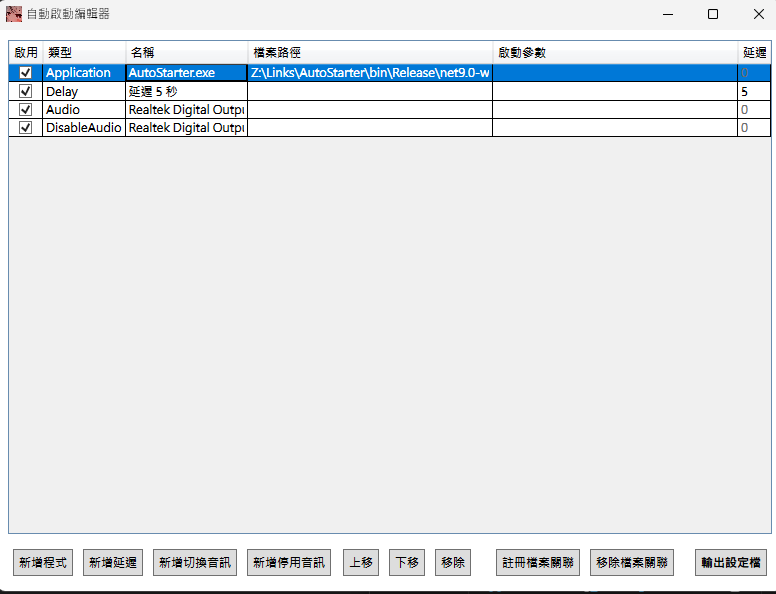
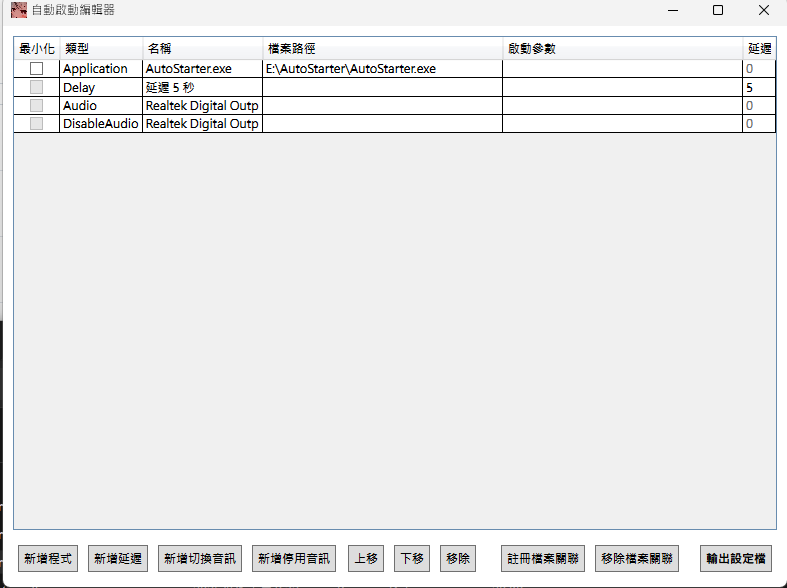
v1.1

Changed region(s): [[0.0, 0.0, 1.0, 1.0], [0.9588, 0.0, 0.9897, 0.0306], [0.8969, 0.0, 0.9278, 0.0306]]

diff --git a/MainWindow.xaml b/MainWindow.xaml
@@ -22,7 +22,23 @@
                   SelectionMode="Single"
                   HeadersVisibility="Column" SelectionChanged="ActionsDataGrid_SelectionChanged">
             <DataGrid.Columns>
-                <DataGridCheckBoxColumn Header="啟用" Binding="{Binding IsEnabled, UpdateSourceTrigger=PropertyChanged}" Width="Auto"/>
+                <DataGridCheckBoxColumn Header="最小化" Binding="{Binding MinimizeWindow, UpdateSourceTrigger=PropertyChanged}" Width="Auto">
+                    <DataGridCheckBoxColumn.CellStyle>
+                        <Style TargetType="DataGridCell">
+                            <Style.Triggers>
+                                <DataTrigger Binding="{Binding Type}" Value="Delay">
+                                    <Setter Property="IsEnabled" Value="False" />
+                                </DataTrigger>
+                                <DataTrigger Binding="{Binding Type}" Value="SetAudioDevice">
+                                    <Setter Property="IsEnabled" Value="False" />
+                                </DataTrigger>
+                                <DataTrigger Binding="{Binding Type}" Value="DisableAudioDevice">
+                                    <Setter Property="IsEnabled" Value="False" />
+                                </DataTrigger>
+                            </Style.Triggers>
+                        </Style>
+                    </DataGridCheckBoxColumn.CellStyle>
+                </DataGridCheckBoxColumn>
                 <DataGridTextColumn Header="類型" Binding="{Binding TypeString}" IsReadOnly="True" Width="Auto"/>
                 <DataGridTextColumn Header="名稱" Binding="{Binding Description}" IsReadOnly="True" Width="*"/>
                 <DataGridTextColumn Header="檔案路徑" Binding="{Binding FilePath, UpdateSourceTrigger=PropertyChanged}" Width="2*">

diff --git a/MainWindow.xaml.cs b/MainWindow.xaml.cs
@@ -1,12 +1,10 @@
 using System.Collections.ObjectModel;
 using System.IO;
-using System.Linq;
 using System.Text.Json;
 using System.Text.Json.Serialization;
 using System.Windows;
 using Microsoft.Win32;
 using NAudio.CoreAudioApi;
-using AutoStarter.CoreAudio;
 
 namespace AutoStarter;
 
@@ -36,18 +34,17 @@ public partial class MainWindow : Window
             {
                 Type = ActionType.LaunchApplication,
                 FilePath = openFileDialog.FileName,
-                Arguments = "",
-                IsEnabled = true
+                Arguments = ""
             });
         }
     }
 
     private void AddDelay_Click(object sender, RoutedEventArgs e)
     {
-        ActionItems.Add(new ActionItem { Type = ActionType.Delay, DelaySeconds = 5, IsEnabled = true });
+        ActionItems.Add(new ActionItem { Type = ActionType.Delay, DelaySeconds = 5 });
     }
 
-        private async void AddAudio_Click(object sender, RoutedEventArgs e)
+    private async void AddAudio_Click(object sender, RoutedEventArgs e)
     {
         var enumerator = new MMDeviceEnumerator();
 
@@ -76,13 +73,12 @@ public partial class MainWindow : Window
             {
                 Type = ActionType.SetAudioDevice,
                 AudioDeviceId = selectedDevice.ID,
-                AudioDeviceName = selectedDevice.FriendlyName,
-                IsEnabled = true
+                AudioDeviceName = selectedDevice.FriendlyName
             });
         }
     }
 
-        private async void AddDisableAudio_Click(object sender, RoutedEventArgs e)
+    private async void AddDisableAudio_Click(object sender, RoutedEventArgs e)
     {
         var enumerator = new MMDeviceEnumerator();
 
@@ -111,8 +107,7 @@ public partial class MainWindow : Window
             {
                 Type = ActionType.DisableAudioDevice,
                 AudioDeviceId = selectedDevice.ID,
-                AudioDeviceName = selectedDevice.FriendlyName,
-                IsEnabled = true
+                AudioDeviceName = selectedDevice.FriendlyName
             });
         }
     }

diff --git a/App.xaml.cs b/App.xaml.cs
@@ -1,8 +1,5 @@
-using System;
-using System.Collections.Generic;
 using System.Diagnostics;
 using System.IO;
-using System.Threading.Tasks;
 using System.Windows;
 using AutoStarter.CoreAudio;
 using System.Text.Json;
@@ -38,7 +35,18 @@ namespace AutoStarter
                                     Log($"Executing action: LaunchApp - {action.FilePath}");
                                     if (!string.IsNullOrEmpty(action.FilePath) && File.Exists(action.FilePath))
                                     {
-                                        Process.Start(new ProcessStartInfo(action.FilePath) { Arguments = action.Arguments, UseShellExecute = true });
+                                        var startInfo = new ProcessStartInfo(action.FilePath)
+                                        {
+                                            Arguments = action.Arguments,
+                                            UseShellExecute = true
+                                        };
+
+                                        if (action.MinimizeWindow)
+                                        {
+                                            startInfo.WindowStyle = ProcessWindowStyle.Minimized;
+                                        }
+
+                                        Process.Start(startInfo);
                                     }
                                     else
                                     {

diff --git a/ActionItem.cs b/ActionItem.cs
@@ -17,11 +17,11 @@ public class ActionItem : INotifyPropertyChanged
 {
     public event PropertyChangedEventHandler? PropertyChanged;
 
-    private bool _isEnabled = true;
-    public bool IsEnabled
+    private bool _minimizeWindow = false;
+    public bool MinimizeWindow
     {
-        get => _isEnabled;
-        set => SetField(ref _isEnabled, value);
+        get => _minimizeWindow;
+        set => SetField(ref _minimizeWindow, value);
     }
 
     private ActionType _type;

diff --git a/CoreAudio/PolicyConfig.cs b/CoreAudio/PolicyConfig.cs
@@ -1,4 +1,3 @@
-using System;
 using System.Runtime.InteropServices;
 
 namespace AutoStarter.CoreAudio

diff --git a/AudioDeviceSelectorWindow.xaml.cs b/AudioDeviceSelectorWindow.xaml.cs
@@ -1,4 +1,3 @@
-using System.Collections.Generic;
 using System.Windows;
 
 namespace AutoStarter
